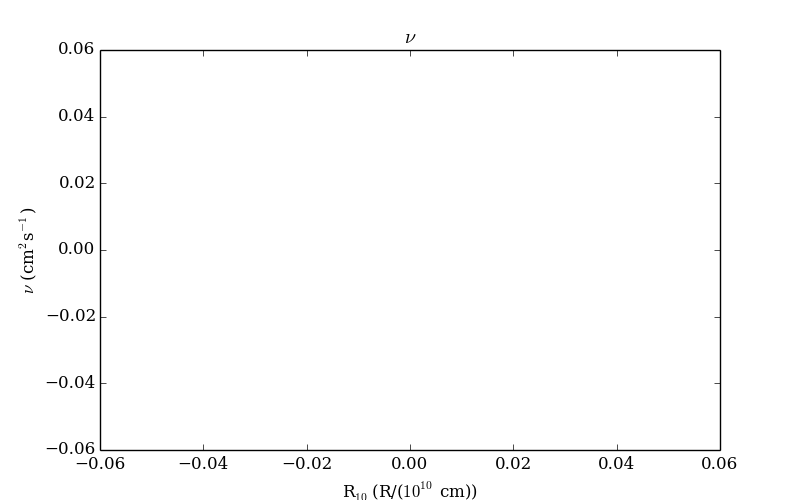
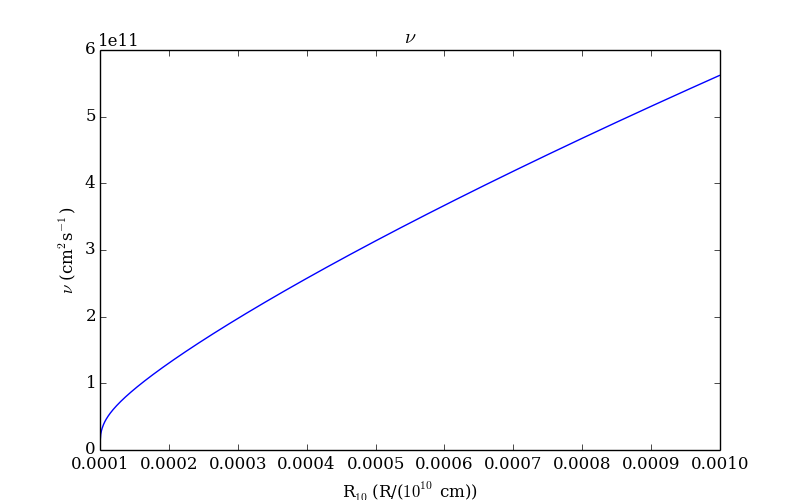
models closer to centre + integration methods

diff --git a/modeling/kamensky/plot.py b/modeling/kamensky/plot.py
@@ -7,7 +7,7 @@ mass_flow = 5.0		# mass flow from disk
 Rc = 1.0*10.0**-4		# diameter of central object /10**10cm
 
 Ri = 1.001*10.0**-4		# inner radius
-Rf = 10.0**-4			# outer radius
+Rf = 10.0**-3			# outer radius
 Rstep = 10.0**-6			# step for computing
 
 R_x = []
@@ -32,7 +32,7 @@ for R in np.arange(Ri,Rf,Rstep):
 	TAU.append(190.0*alfa**(-4.0/5)*mass_flow**(1.0/5)*f**(4.0/5))
 	NI.append(1.8*10.0**14.0*alfa**(4.0/5)*mass_flow**(3.0/10)*m1**(-1.0/4)*R**(3.0/4)*f**(6.0/5))
 	Vr.append(2.7*10.0**4.0*alfa**(4.0/5)*mass_flow**(3.0/10)*m1**(-1.0/4)*R**(-1.0/4)*f**(-14.0/5))
-reset()	
+
 matplotlib.rcParams.update({'font.size': 12, 'font.family': 'serif'})
 
 
